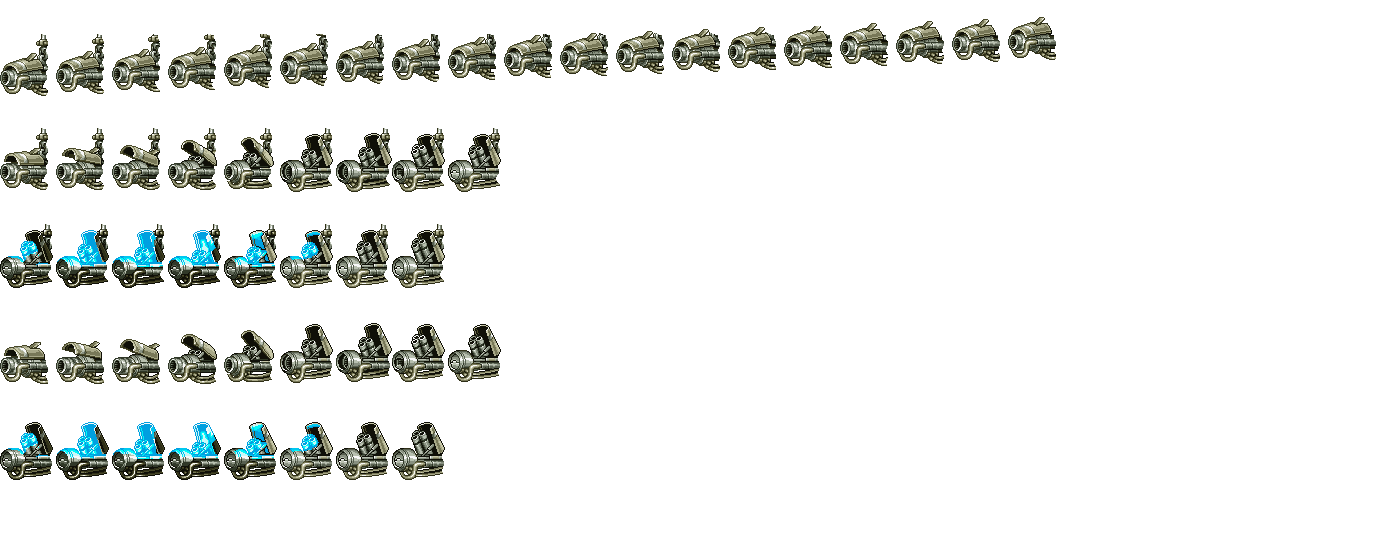
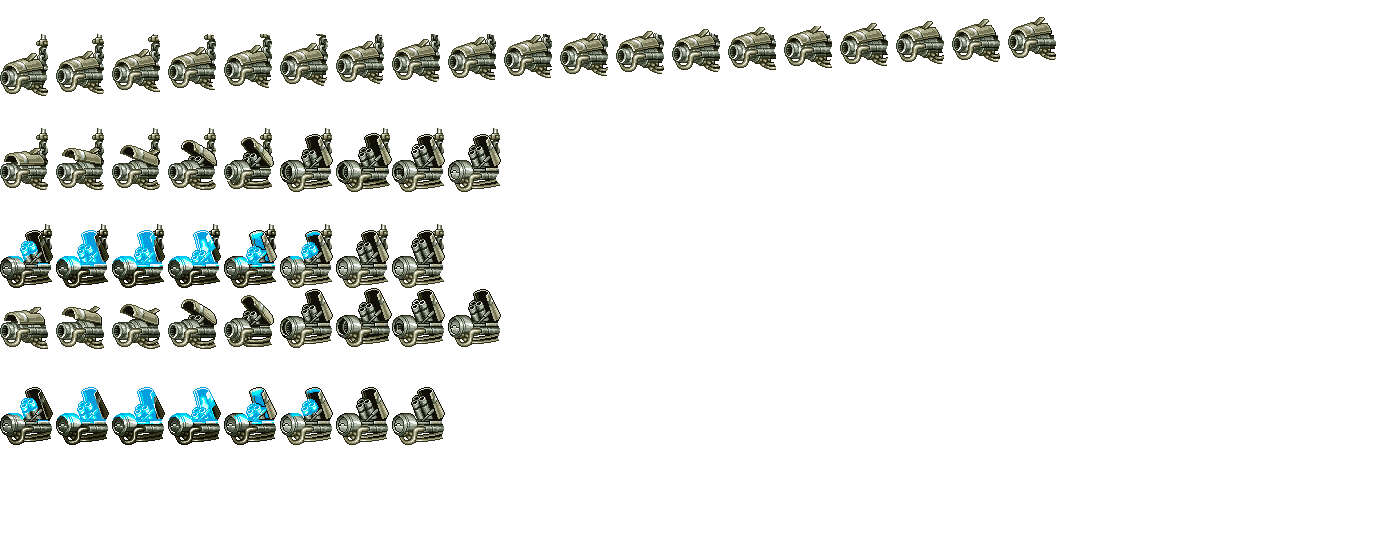
e

Changed region(s): [[0.0, 0.5255, 0.3686, 0.8655]]

diff --git a/Solution/Project1/Boss.cpp b/Solution/Project1/Boss.cpp
@@ -1,0 +1,171 @@
+#include "Boss.hpp"
+
+Boss::Boss() {}
+Boss::~Boss() {}
+
+void Boss::Init()
+{
+    Image img = LoadImage("Graphics/boss/cannon56x96.png");
+    cannonSheet = LoadTextureFromImage(img);
+    UnloadImage(img);
+    SetTextureFilter(cannonSheet, TEXTURE_FILTER_POINT);
+
+    cannonFrame = 0;
+    cannonGoingUp = true;
+    cannonFrameTimer = 0.0f;
+    cannonState = CannonState::MOVING;
+    stateTimer = 0.0f;
+    openFrame = 0;
+    closeFrame = 0;
+}
+
+void Boss::Update(float playerX)
+{
+    if (!active) {
+        if (playerX >= 14000.0f) active = true;
+        else return;
+    }
+
+    UpdateCannon(GetFrameTime());
+}
+
+void Boss::UpdateCannon(float dt)
+{
+    cannonFrameTimer += dt;
+
+    switch (cannonState)
+    {
+    case CannonState::MOVING:
+        if (cannonFrameTimer < cannonFrameDelay) return;
+        cannonFrameTimer = 0.0f;
+
+        if (cannonGoingUp) {
+            cannonFrame++;
+            if (cannonFrame >= CANNON_FRAMES - 1) {
+                cannonFrame = CANNON_FRAMES - 1;
+                cannonState = CannonState::OPENING_UP;
+                openFrame = 0;
+                cannonFrameTimer = 0.0f;
+            }
+        }
+        else {
+            cannonFrame--;
+            if (cannonFrame <= 0) {
+                cannonFrame = 0;
+                cannonState = CannonState::OPENING_DOWN;
+                openFrame = 0;
+                cannonFrameTimer = 0.0f;
+            }
+        }
+        break;
+
+        // ── ABAJO ─────────────────────────────────────────────────
+    case CannonState::OPENING_DOWN:
+        if (cannonFrameTimer < cannonFrameDelay) return;
+        cannonFrameTimer = 0.0f;
+        openFrame++;
+        if (openFrame >= OPEN_DOWN_FRAMES - 1) {
+            openFrame = 0;
+            cannonState = CannonState::SHOOTING_DOWN;
+            cannonFrameTimer = 0.0f;
+        }
+        break;
+
+    case CannonState::SHOOTING_DOWN:
+        if (cannonFrameTimer < cannonFrameDelay) return;
+        cannonFrameTimer = 0.0f;
+        openFrame++;
+        if (openFrame >= SHOOT_DOWN_FRAMES - 1) {
+            // TODO: disparar
+            openFrame = OPEN_DOWN_FRAMES - 1;  // empieza desde el último
+            cannonState = CannonState::CLOSING_DOWN;
+            cannonFrameTimer = 0.0f;
+        }
+        break;
+
+    case CannonState::CLOSING_DOWN:
+        if (cannonFrameTimer < cannonFrameDelay) return;
+        cannonFrameTimer = 0.0f;
+        openFrame--;
+        if (openFrame <= 0) {
+            openFrame = 0;
+            cannonGoingUp = true;
+            cannonFrame = 0;
+            cannonState = CannonState::MOVING;
+            cannonFrameTimer = 0.0f;
+        }
+        break;
+
+        // ── ARRIBA ────────────────────────────────────────────────
+    case CannonState::OPENING_UP:
+        if (cannonFrameTimer < cannonFrameDelay) return;
+        cannonFrameTimer = 0.0f;
+        openFrame++;
+        if (openFrame >= OPEN_UP_FRAMES - 1) {
+            openFrame = 0;
+            cannonState = CannonState::SHOOTING_UP;
+            cannonFrameTimer = 0.0f;
+        }
+        break;
+
+    case CannonState::SHOOTING_UP:
+        if (cannonFrameTimer < cannonFrameDelay) return;
+        cannonFrameTimer = 0.0f;
+        openFrame++;
+        if (openFrame >= SHOOT_UP_FRAMES - 1) {
+            // TODO: disparar
+            openFrame = OPEN_UP_FRAMES - 1;  // empieza desde el último
+            cannonState = CannonState::CLOSING_UP;
+            cannonFrameTimer = 0.0f;
+        }
+        break;
+
+    case CannonState::CLOSING_UP:
+        if (cannonFrameTimer < cannonFrameDelay) return;
+        cannonFrameTimer = 0.0f;
+        openFrame--;
+        if (openFrame <= 0) {
+            openFrame = 0;
+            cannonGoingUp = false;
+            cannonFrame = CANNON_FRAMES - 1;
+            cannonState = CannonState::MOVING;
+            cannonFrameTimer = 0.0f;
+        }
+        break;
+    }
+}
+
+void Boss::Draw()
+{
+    if (!active) return;
+
+    Rectangle src;
+
+    switch (cannonState)
+    {
+    case CannonState::OPENING_DOWN:
+    case CannonState::CLOSING_DOWN:
+        src = { openFrame * CANNON_FRAME_W, OPEN_DOWN_ROW_Y, CANNON_FRAME_W, CANNON_FRAME_H };
+        break;
+    case CannonState::SHOOTING_DOWN:
+        src = { openFrame * CANNON_FRAME_W, SHOOT_DOWN_ROW_Y, CANNON_FRAME_W, CANNON_FRAME_H };
+        break;
+    case CannonState::OPENING_UP:
+    case CannonState::CLOSING_UP:
+        src = { openFrame * CANNON_FRAME_W, OPEN_UP_ROW_Y, CANNON_FRAME_W, CANNON_FRAME_H };
+        break;
+    case CannonState::SHOOTING_UP:
+        src = { openFrame * CANNON_FRAME_W, SHOOT_UP_ROW_Y, CANNON_FRAME_W, CANNON_FRAME_H };
+        break;
+    default:
+        src = { cannonFrame * CANNON_FRAME_W, 0.0f, CANNON_FRAME_W, CANNON_FRAME_H };
+        break;
+    }
+
+    Rectangle dst = {
+        posX, posY,
+        CANNON_FRAME_W * CANNON_SCALE,
+        CANNON_FRAME_H * CANNON_SCALE
+    };
+    DrawTexturePro(cannonSheet, src, dst, { 0, 0 }, 0.0f, WHITE);
+}

diff --git a/Solution/Project1/Boss.hpp b/Solution/Project1/Boss.hpp
@@ -1,0 +1,72 @@
+#pragma once
+#include <raylib.h>
+
+class Boss {
+public:
+    Boss();
+    ~Boss();
+
+    void Init();
+    void Update(float playerX);
+    void Draw();
+
+    bool IsActive() const { return active; }
+    int  GetHealth() const { return health; }
+    void TakeDamage() { if (active) health--; }
+    Rectangle GetHitBox() const {
+        return { posX, posY, CANNON_FRAME_W * CANNON_SCALE, CANNON_FRAME_H * CANNON_SCALE };
+    }
+
+private:
+    // ── Estado general ────────────────────────────────────────
+    bool active = false;
+    int  health = 200;
+
+    // ── Posición ──────────────────────────────────────────────
+    float posX = 16130.0f;
+    float posY = 90.0f;
+
+    // ── Estado del cañón ──────────────────────────────────────
+    enum class CannonState {
+        MOVING,
+        OPENING_DOWN,    // fila 1 adelante
+        SHOOTING_DOWN,   // fila 2
+        CLOSING_DOWN,    // fila 1 atrás
+        OPENING_UP,      // fila 3 adelante
+        SHOOTING_UP,     // fila 4
+        CLOSING_UP,      // fila 3 atrás
+    };
+
+    CannonState cannonState = CannonState::MOVING;
+    float       stateTimer = 0.0f;
+    float       pauseDuration = 0.8f;
+
+    bool  cannonGoingUp = true;
+    int   cannonFrame = 0;
+    int   openFrame = 0;
+    int   closeFrame = 0;
+
+    float cannonFrameTimer = 0.0f;
+    float cannonFrameDelay = 0.08f;
+
+    Texture2D cannonSheet = { 0 };
+
+    // ── Constantes spritesheet ────────────────────────────────
+    static constexpr int   CANNON_FRAMES = 19;
+    static constexpr float CANNON_FRAME_W = 56.0f;
+    static constexpr float CANNON_FRAME_H = 96.0f;
+    static constexpr float CANNON_SCALE = 4.0f;
+
+    static constexpr int   OPEN_DOWN_FRAMES = 9;   // fila 1
+    static constexpr float OPEN_DOWN_ROW_Y = 1 * 96.0f;
+    static constexpr int   SHOOT_DOWN_FRAMES = 8;   // fila 2
+    static constexpr float SHOOT_DOWN_ROW_Y = 2 * 96.0f;
+
+    static constexpr int   OPEN_UP_FRAMES = 9;   // fila 3
+    static constexpr float OPEN_UP_ROW_Y = 3 * 96.0f;
+    static constexpr int   SHOOT_UP_FRAMES = 8;   // fila 4
+    static constexpr float SHOOT_UP_ROW_Y = 4 * 96.0f;
+
+    // ── Helpers ───────────────────────────────────────────────
+    void UpdateCannon(float dt);
+};

diff --git a/Solution/Project1/game.cpp b/Solution/Project1/game.cpp
@@ -15,8 +15,10 @@ Game::Game() : camera({ 1200.0f / 2.0f, 896.0f / 2.0f })
     debug.SetGridOffset(creationManager.GetTileMap().GetGridOffset());
 
     player.SetGrounded(true);
-    player.SetX(300.0f);
-    player.SetY(300.0f);
+    player.SetX(15000.0f);
+    player.SetY(100.0f);
+
+    boss.Init();
 }
 
 Game::~Game() {}
@@ -51,6 +53,7 @@ void Game::Draw()
     creationManager.GetTileMap().DrawTiles();
     creationManager.GetTileMap().DrawColliders();
     debug.DrawEditorGrid(camera.GetCamera());
+    boss.Draw();
 
     camera.End();
 
@@ -98,6 +101,7 @@ void Game::Update()
     // ── GAME ───────────────────────────────
     uiManager.Update();
     timerManager.Update(GetFrameTime());
+    boss.Update(player.GetPosition().x);
 
     player.SavePreviousPosition();
     HandleInput();

diff --git a/Solution/Project1/GlobalManagers.hpp b/Solution/Project1/GlobalManagers.hpp
@@ -8,6 +8,7 @@
 #include "CameraManager.hpp"
 #include "BackgroundManager.hpp"
 #include "CreationManager.hpp"
+#include "Boss.hpp"
 
 // Contenedor de instancias globales. Usar como: Globals::player, Globals::timerManager, ...
 namespace Globals
@@ -20,6 +21,7 @@ namespace Globals
     extern CameraManager cameraManager;
     extern BackgroundManager backgroundManager;
     extern CreationManager creationManager;
+    extern Boss boss;
 }
 
 // Aliases en el espacio global para no tener que escribir Globals::
@@ -32,3 +34,4 @@ extern TimerManager& timerManager;
 extern CameraManager& cameraManager;
 extern BackgroundManager& backgroundManager;
 extern CreationManager& creationManager;
+extern Boss& boss;

diff --git a/Solution/Project1/SystemCollision.cpp b/Solution/Project1/SystemCollision.cpp
@@ -279,7 +279,15 @@ void SystemCollision::BulletCollision()
                 }
             }
         }
-
+        // 4. DAÑO AL BOSS
+        if (!hit && boss.IsActive() && (bIt->GetType() == 1 || bIt->GetType() == 3))
+        {
+            if (CheckCollisionRecs(bIt->GetHitbox(), boss.GetHitBox()))
+            {
+                boss.TakeDamage();
+                hit = true;
+            }
+        }
         if (hit) bIt = bullets.erase(bIt);
         else     ++bIt;
     }

diff --git a/Solution/Project1/main.cpp b/Solution/Project1/main.cpp
@@ -11,6 +11,7 @@ int main()
     uiManager.Init();
     sceneManager.Init();
     backgroundManager.Init();
+    boss.Init();
 
     sceneManager.SetGameState(SceneManager::GAME);
     uiManager.SetCredits(99);

diff --git a/Solution/Project1/game.hpp b/Solution/Project1/game.hpp
@@ -6,6 +6,7 @@
 #include "Grenade.hpp"
 #include "InputManager.hpp"
 #include "Debug.hpp"
+#include "Boss.hpp"
 
 
 class Game {
